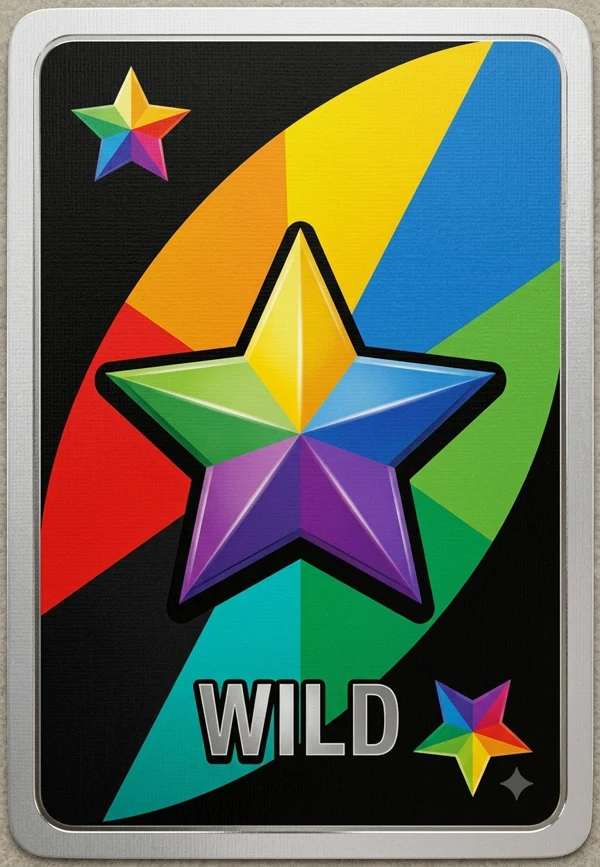
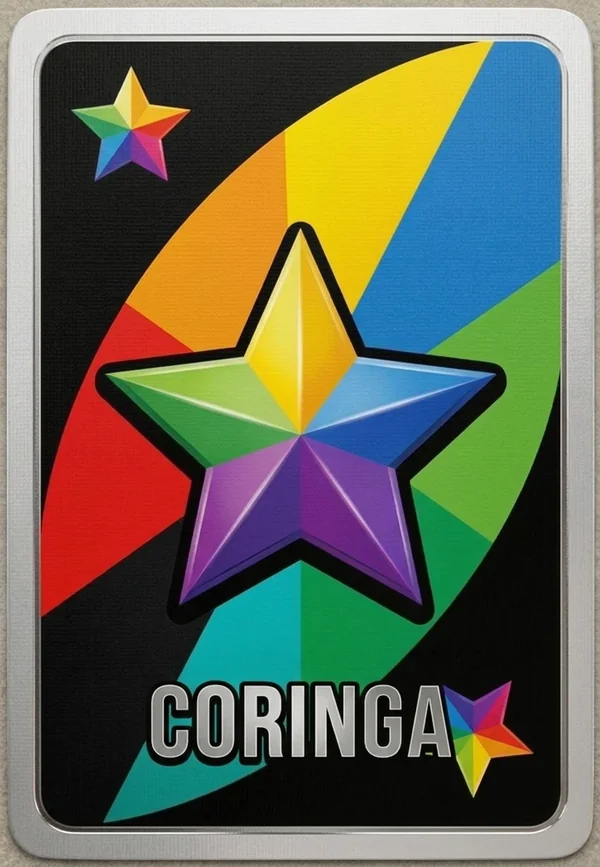
feat(web): cartas especiais com arte em português
Novas artes de Coringa, Gira Mão, Zero Mais e +2 Para Todos (agora .webp,
sem o .svg antigo), textos alternativos e descrição do app em PT-BR.

diff --git a/apps/web/src/components/cardVisuals.ts b/apps/web/src/components/cardVisuals.ts
@@ -8,7 +8,7 @@ const SPECIAL_ASSETS: Partial<Record<string, string>> = {
   TROCA_MAO: '/assets/cards/kabemjunto/troca-mao.webp',
   GIRA_MAO: '/assets/cards/kabemjunto/gira-mao.webp',
   CORINGA_SIMPLES: '/assets/cards/kabemjunto/coringa.webp',
-  MAIS_DOIS_TODOS: '/assets/cards/kabemjunto/mais-dois-todos.svg',
+  MAIS_DOIS_TODOS: '/assets/cards/kabemjunto/mais-dois-todos.webp',
 };
 
 export type CardVisualTemplate = 'numeric' | 'acao-colorida' | 'neutra-especial';
@@ -19,7 +19,7 @@ export type CardVisual =
 export function getCardVisual(carta: Carta): CardVisual {
   const acao = carta.acao;
 
-  // Cartas com arte premium (5 neutras especiais)
+  // Cartas com arte premium (6 neutras especiais)
   if (acao !== undefined && acao in SPECIAL_ASSETS) {
     return { kind: 'asset', src: SPECIAL_ASSETS[acao] as string };
   }
@@ -42,10 +42,11 @@ export function getCardAltText(carta: Carta): string {
   if (carta.valor !== undefined) return `Carta ${carta.valor}`;
   const labels: Record<string, string> = {
     MAIS_QUATRO: '+4',
-    ZERO_MAIS: '0+ Reflexo',
+    ZERO_MAIS: '0+ Zero Mais',
     TROCA_MAO: 'Troca Mão',
     GIRA_MAO: 'Gira Mão',
     CORINGA_SIMPLES: 'Coringa',
+    MAIS_DOIS_TODOS: '+2 Para Todos',
   };
   return labels[carta.acao ?? ''] ?? carta.efeito_texto_curto;
 }

diff --git a/apps/web/src/components/cardVisuals.test.ts b/apps/web/src/components/cardVisuals.test.ts
@@ -50,11 +50,11 @@ describe('cardVisuals — catálogo visual', () => {
       if (v.kind === 'asset') expect(v.src).toContain('coringa.webp');
     });
 
-    it('MAIS_DOIS_TODOS mapeia para mais-dois-todos.svg (ADR-013)', () => {
+    it('MAIS_DOIS_TODOS mapeia para mais-dois-todos.webp (ADR-013)', () => {
       const v = getCardVisual(carta({ tipo: 'NEUTRA', cor: 'NEUTRO', acao: 'MAIS_DOIS_TODOS' }));
       expect(v.kind).toBe('asset');
       if (v.kind === 'asset') {
-        expect(v.src).toContain('mais-dois-todos.svg');
+        expect(v.src).toContain('mais-dois-todos.webp');
         expect(v.src).toContain('/assets/cards/kabemjunto/');
       }
     });

diff --git a/apps/web/src/components/PainelColecao.tsx b/apps/web/src/components/PainelColecao.tsx
@@ -22,7 +22,7 @@ const TEMAS: Array<{ id: TemaColecao; nome: string; cores: string[] }> = [
 
 const DECK_PREVIEW_SPECIALS: readonly { src: string; alt: string }[] = [
   { src: '/assets/cards/kabemjunto/mais-quatro.webp', alt: '+4' },
-  { src: '/assets/cards/kabemjunto/zero-mais.webp', alt: '0+ Reflexo' },
+  { src: '/assets/cards/kabemjunto/zero-mais.webp', alt: '0+ Zero Mais' },
   { src: '/assets/cards/kabemjunto/troca-mao.webp', alt: 'Troca Mão' },
 ];
 

diff --git a/GDD-Kabemjunto.md b/GDD-Kabemjunto.md
@@ -65,7 +65,7 @@ Hoje o jogo roda no navegador. O botão principal, **Jogar agora**, entra numa m
 | Motor de regras (109 cartas)                     | ✅       | Silêncio, 0+, +2 Para Todos, Corta-Frente, descarte múltiplo, Troca/Gira Mão                                                             |
 | Online: salas públicas/privadas, retomada        | ✅       | Salas por código; persistência de snapshot em instância única; chat e falas rápidas                                                      |
 | Mesa 3D (bots e online)                          | ✅       | Um componente para os dois modos; 2D simples sem WebGL ou com `?mesa=2d`; peso das cartas opcional (`?peso=1`); selos no jogador afetado |
-| Menu, logo e leque de cartas                     | ✅       | "Jogar agora" em destaque, "Só contra bots, neste aparelho" e "Jogar com amigos". As cartas do menu ainda têm nomes em inglês            |
+| Menu, logo e leque de cartas                     | ✅       | "Jogar agora" em destaque, "Só contra bots, neste aparelho" e "Jogar com amigos". Artes das cartas especiais em português (Coringa, Gira Mão, Troca Mão, Zero Mais, +2 Para Todos) |
 | Dicas contextuais                                | ✅       | Seis dicas, cada uma aparece uma vez, quando importa                                                                                     |
 | PWA instalável e partida offline                 | ✅       | Manifest, ícones, service worker; menu avisa "Sem internet"                                                                              |
 | "Jogar agora" com bots                           | ✅       | Sala pública rápida (ADR-015)                                                                                                            |
